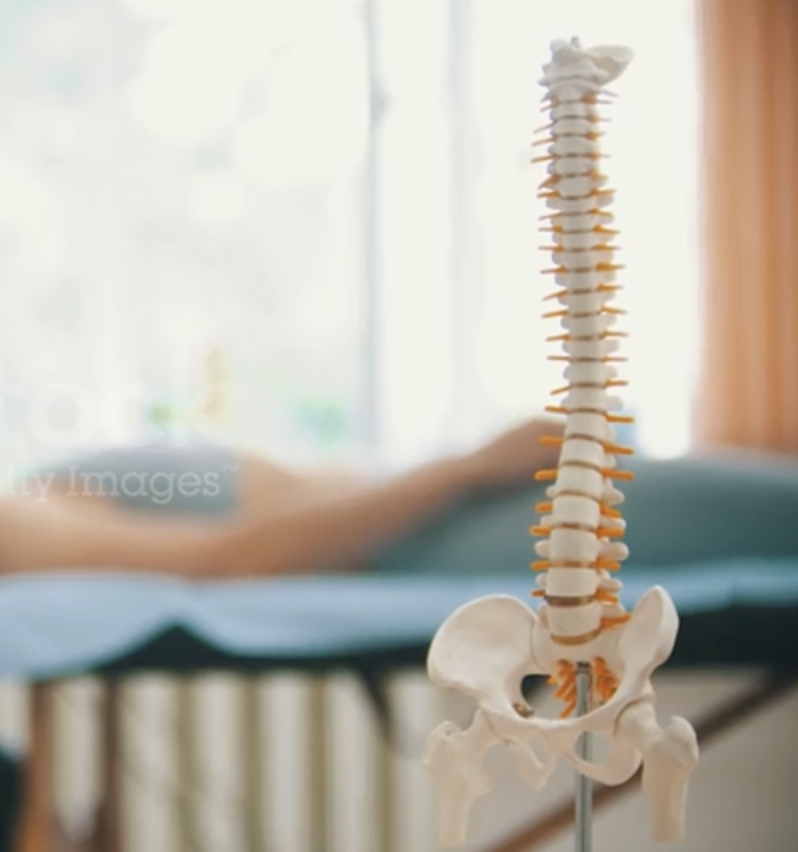
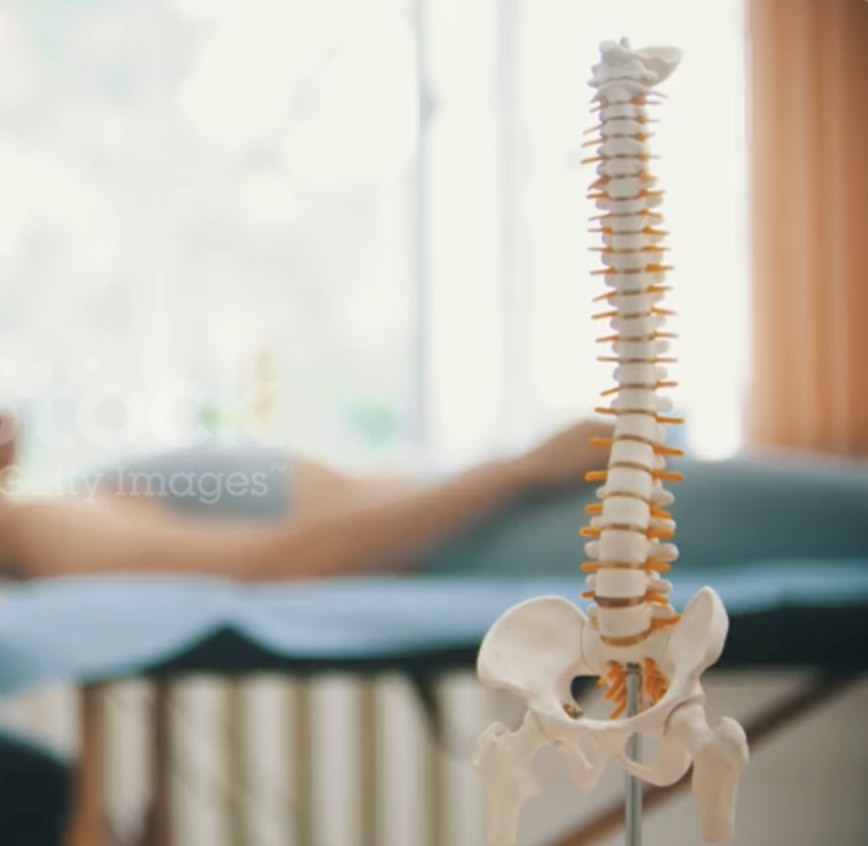
changed home page video and img

diff --git a/src/styles/Home.css b/src/styles/Home.css
@@ -40,7 +40,7 @@
     left: 50%;
     width: 100%;
     height: 100%;
-    object-fit: cover;
+    object-fit: contain;
     transform: translate(-50%, -50%);
     z-index: -1; 
     
@@ -128,15 +128,32 @@
   display: none;
 }
 
+.small-picture {
+  display: none;
+}
+
 
   @media (max-width: 480px) {
     .background-video {
       display: none;
     }
-  
-    .home-page {
-   background-color: rgb(236, 232, 232);
+    .small-picture {
+      display: block;
+      position: absolute;
+      top: 50%;
+      left: 50%;
+      width: 100%;
+      height: auto; 
+      max-height: 100%; 
+      object-fit: cover; /* Ensures the image covers the container */
+      object-position: 50% 30%; /* Adjust the X and Y positions */
+      transform: translate(-50%, -50%);
+      z-index: -1; 
     }
+  
+    /* .home-page {
+   background-color: rgb(236, 232, 232);
+    } */
     .welcome {
       opacity: 0.8;
     }
@@ -172,9 +189,9 @@
    .background-video {
      display: none;
    }  
-   .home-page {
+   /* .home-page {
      background-color: rgb(236, 232, 232);
-   }
+   } */
     .welcome {
       opacity: 0.8;
       font-size: 60px;
@@ -197,6 +214,19 @@
     .home-btn {
       font-size: 28px;
       margin-top: 10px;
+    }
+    .small-picture {
+      display: block;
+      position: absolute;
+      top: 50%;
+      left: 50%;
+      width: 200%;
+      height: auto; 
+      max-height: 100%; 
+      object-fit: cover; /* Ensures the image covers the container */
+      object-position: 50% 30%; /* Adjust the X and Y positions */
+      transform: translate(-50%, -50%);
+      z-index: -1; 
     }
   }
 

diff --git a/src/pages/Home.tsx b/src/pages/Home.tsx
@@ -8,6 +8,7 @@ import Appointment from '../components/Appointment';
 import Vision from '../components/Vision';
 import MeetDocs from '../components/MeetDocs';
 import Footer from '../components/Footer';
+import SpinePic from '../assets/spineImg.png';
 
 
 
@@ -36,6 +37,9 @@ const Home: React.FC = () => {
           <source src={Video} type="video/mp4" />
           Your browser does not support the video tag.
         </video>
+        <div className='small-picture'>
+        <img src={SpinePic} alt="Spine" />
+        </div>
         <div className="content">
           <div className='welcome'>
             <div> We Welcome New Patients!</div>
